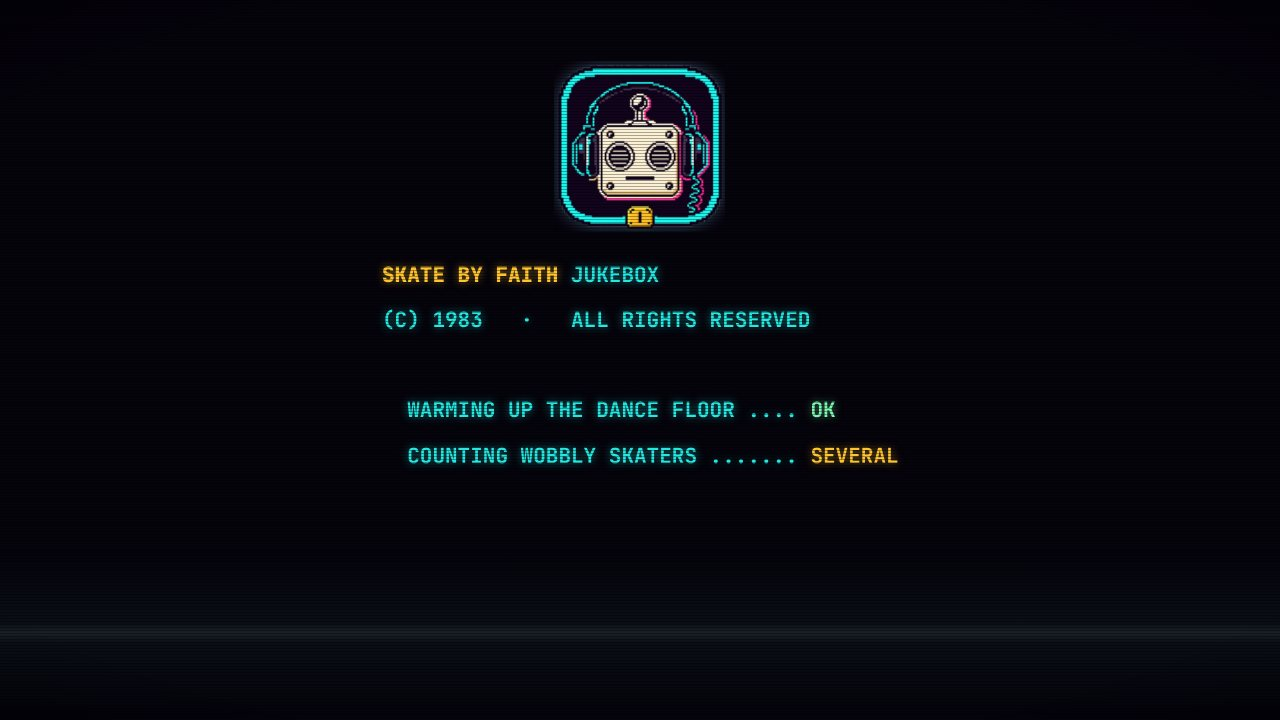
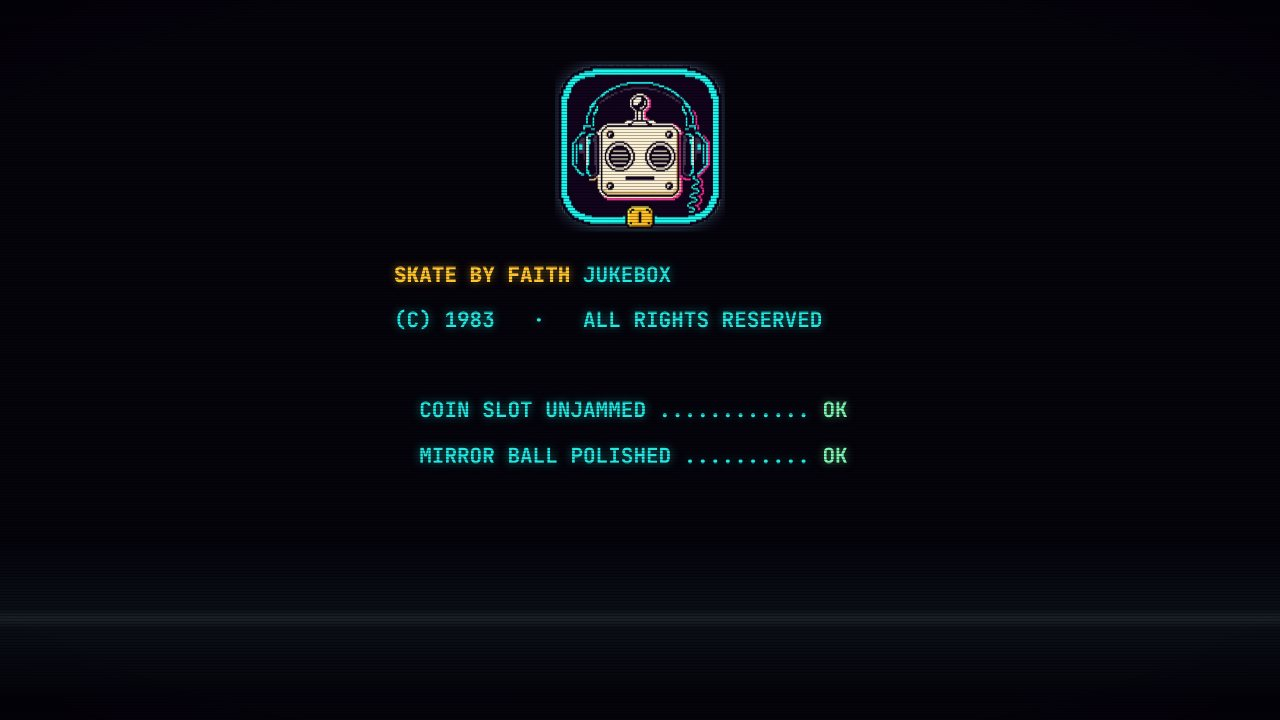
feat: bigger centred marquee, wider Now Playing, scrolling album pages
- Marquee sign: wordmark centred and enlarged (2.45rem), bulb rows moved to
  the sign's edges so lettering never sits on a bulb.
- Columns: Now Playing 1.38 / Up Next 0.62 of the right two-thirds. Up Next
  stacks its move-up and cancel buttons so titles keep their width; very long
  titles step down a size instead of being cut off.
- Album pages with more songs than fit scroll inside the strip window, show
  a MORE tag while songs are hidden below, and a typed code outlines its
  strip and scrolls it into view.
- Strips and marquee tightened so three songs per album still fit at 720p.
- README: where to add new songs; DESIGN: layout notes. Screenshots retaken.

Claude-Session: https://claude.ai/code/session_019UepSTK4gBiwDTjkX8XKsc

diff --git a/styles.css b/styles.css
@@ -229,7 +229,7 @@ body.on-attract .rig{ visibility:hidden; }
 .cabinet{
   display:grid; min-height:0;
   /* tube | choose (one third) | now playing + up next (two thirds) | tube */
-  grid-template-columns:1.8rem minmax(0,1fr) minmax(0,1.3fr) minmax(0,.7fr) 1.8rem;
+  grid-template-columns:1.8rem minmax(0,1fr) minmax(0,1.38fr) minmax(0,.62fr) 1.8rem;
   gap:.5rem;
 }
 
@@ -340,13 +340,13 @@ body.on-attract .rig{ visibility:hidden; }
 .marquee-status .led-chip{ min-width:0; }
 
 .marquee-sign{
-  position:relative; padding:.3rem 2rem .8rem;
+  position:relative; padding:.72rem 2.6rem .8rem; text-align:center;
   background:radial-gradient(120% 140% at 50% -10%, rgba(255,45,149,.12), transparent 55%), linear-gradient(180deg, #120826, #0A0417);
   border:.14rem solid var(--cab-edge); border-radius:1rem;
   box-shadow:0 .4rem 0 rgba(0,0,0,.5), inset 0 0 0 .32rem #0A0417, inset 0 0 0 .38rem rgba(255,255,255,.04), 0 0 1.4rem rgba(255,45,149,.12);
 }
 .marquee-sign::before{ /* amber bulb ring, chasing */
-  content:""; position:absolute; inset:.4rem .65rem; border-radius:.6rem; pointer-events:none;
+  content:""; position:absolute; inset:.26rem .65rem; border-radius:.6rem; pointer-events:none;
   background-image:
     radial-gradient(circle .13rem at .5rem 50%, var(--gold) 0 .13rem, transparent .17rem),
     radial-gradient(circle .13rem at .5rem 50%, var(--gold) 0 .13rem, transparent .17rem);
@@ -365,14 +365,14 @@ body.on-attract .rig{ visibility:hidden; }
 }
 .wordmark{
   margin:0; font-family:var(--font-display); font-weight:400; line-height:1; text-transform:uppercase;
-  font-size:1.9rem; letter-spacing:-.01em; white-space:nowrap; position:relative; z-index:1;
+  font-size:2.45rem; letter-spacing:-.01em; white-space:nowrap; position:relative; z-index:1;
 }
 .wordmark span{ color:#fff; display:inline-block; }
 /* the little word between the two tubes is plain plastic lettering, not neon */
 .wordmark .by, .attract-title .by{ font-size:.5em; vertical-align:.32em; color:var(--cream); text-shadow:none; margin:0 .1em; }
 .wordmark-sub{
   margin:.15rem 0 0; text-align:center; position:relative; z-index:1; white-space:nowrap;
-  font:700 .58rem/1 var(--font-mono); letter-spacing:.2em; text-transform:uppercase; color:var(--cream);
+  font:700 .72rem/1 var(--font-mono); letter-spacing:.2em; text-transform:uppercase; color:var(--cream);
 }
 .w-cyan{ color:#E9FFFE; text-shadow:0 0 .05rem #fff, 0 0 .28rem rgba(37,232,226,.75), 0 0 .7rem rgba(37,232,226,.32), -.05rem 0 0 rgba(37,232,226,.25), .05rem 0 0 rgba(255,45,149,.15); }
 .w-mag{ color:#FFEAF4; text-shadow:0 0 .05rem #fff, 0 0 .28rem rgba(255,45,149,.75), 0 0 .7rem rgba(255,45,149,.32), -.05rem 0 0 rgba(255,45,149,.25), .05rem 0 0 rgba(37,232,226,.15); }
@@ -471,17 +471,24 @@ body.on-attract .rig{ visibility:hidden; }
 .rack-sleeve .sleeve{ box-shadow:0 .3rem 0 rgba(0,0,0,.55), inset 0 0 0 1px rgba(60,40,10,.35); }
 
 /* the title strips: read-only paper in a dark brass-framed window */
+.strips-wrap{ position:relative; flex:1; min-width:0; display:flex; }
 .strips{
   flex:1; min-width:0; align-self:stretch; min-height:0; overflow-y:auto; overflow-x:hidden;
-  padding:.35rem; border-radius:.5rem; background:linear-gradient(180deg,#0d0618,#140a24);
+  padding:.28rem; border-radius:.5rem; background:linear-gradient(180deg,#0d0618,#140a24);
   box-shadow:var(--inset), 0 0 0 .14rem #6a4a2a, 0 0 0 .22rem #2a1a0a;
   scrollbar-width:thin; scrollbar-color:var(--cab-edge) transparent;
 }
+.strips-more{
+  position:absolute; left:50%; bottom:.35rem; z-index:2; transform:translateX(-50%); pointer-events:none;
+  padding:.12rem .45rem; border-radius:.25rem; background:var(--screen); box-shadow:0 0 0 1px var(--cab-edge), 0 -.6rem .8rem rgba(13,6,24,.9);
+  font:700 .55rem/1 var(--font-mono); letter-spacing:.12em; color:var(--cyan); opacity:0; transition:opacity .2s ease;
+}
+.strips-more.is-shown{ opacity:1; }
 .strips-empty{ margin:1rem .4rem; color:var(--dim); font:700 .66rem var(--font-mono); letter-spacing:.08em; text-align:center; }
 .strip{
   --paper:linear-gradient(180deg,#E6D9BB,#D2C29E);
   position:relative; display:grid; grid-template-columns:1.8rem minmax(0,1fr); align-items:center; gap:.35rem;
-  width:100%; min-height:2.05rem; margin:0 0 .26rem; padding:.2rem .3rem .2rem .22rem; text-align:left;
+  width:100%; min-height:1.95rem; margin:0 0 .2rem; padding:.16rem .3rem .16rem .22rem; text-align:left;
   background:var(--paper); color:var(--sl-ink); border-radius:.2rem;
   box-shadow:0 .14rem 0 rgba(0,0,0,.55), inset 0 0 0 1px rgba(60,40,10,.25);
 }
@@ -498,6 +505,7 @@ body.on-attract .rig{ visibility:hidden; }
 }
 .strip-aside:empty{ display:none; }
 .strip.is-now{ box-shadow:0 0 0 .14rem var(--magenta), 0 .14rem 0 rgba(0,0,0,.55); }
+.strip.is-typed{ box-shadow:0 0 0 .14rem var(--cyan), 0 .14rem 0 rgba(0,0,0,.55); }
 .strip.is-now .strip-aside{ color:var(--magenta-deep); }
 .strip.is-queued .strip-aside{ color:#0B6F6B; }
 .strip.is-missing{ filter:grayscale(.85); opacity:.62; }
@@ -656,15 +664,20 @@ body.on-attract .rig{ visibility:hidden; }
 /* ================= RIGHT TWO-THIRDS: up next (full height) ================= */
 .queue-panel{ display:flex; flex-direction:column; min-height:0; }
 .queue{ flex:1; min-height:0; padding:.4rem .5rem; display:flex; flex-direction:column; }
-.queue-list{ list-style:none; margin:0; padding:0; position:relative; z-index:1; display:grid; gap:.35rem; }
-.q-row{ display:grid; grid-template-columns:1.1rem minmax(0,1fr) 1.25rem 1.25rem; align-items:center; gap:.3rem; min-height:2.1rem; }
+.queue-list{ list-style:none; margin:0; padding:0; position:relative; z-index:1; display:grid; gap:.28rem; }
+/* the narrow column: move-up and cancel stack on the right so the title keeps the width */
+.q-row{
+  display:grid; grid-template-columns:1.1rem minmax(0,1fr) 1.25rem; grid-template-areas:"pos text up" "pos text x";
+  align-items:center; column-gap:.35rem; row-gap:.18rem; min-height:2.1rem;
+}
+.q-pos{ grid-area:pos; } .q-text{ grid-area:text; } .q-btn{ grid-area:up; } .q-btn.q-x{ grid-area:x; }
 .q-pos{ font-size:1.05rem; text-align:center; }
 .q-text{ display:grid; min-width:0; line-height:1.05; gap:.12rem; }
 .q-title{ font:700 .92rem/1.08 var(--font-body); color:var(--cream); overflow:hidden; display:-webkit-box; -webkit-box-orient:vertical; -webkit-line-clamp:2; }
-.q-title[data-long="1"]{ font-size:.86rem; }
-.q-sub{ font-size:.58rem; letter-spacing:.06em; opacity:.85; }
+.q-title[data-long="1"]{ font-size:.86rem; } .q-title[data-long="2"]{ font-size:.78rem; }
+.q-sub{ font-size:.58rem; letter-spacing:.06em; opacity:.85; white-space:nowrap; overflow:hidden; text-overflow:ellipsis; }
 .q-btn{
-  width:1.25rem; height:1.2rem; padding:0; cursor:pointer; font-size:.6rem; line-height:1;
+  width:1.25rem; height:1.1rem; padding:0; cursor:pointer; font-size:.6rem; line-height:1;
   background:var(--cab-2); color:var(--cream); border:1px solid var(--cab-edge); border-radius:.25rem; box-shadow:0 .12rem 0 rgba(0,0,0,.5);
 }
 .q-btn:hover:not(:disabled){ border-color:var(--cyan); color:var(--cyan); }

diff --git a/ui.js b/ui.js
@@ -122,7 +122,19 @@ export function createUI({ library, getStatus, handlers }) {
       stripRows.set(t.id, row);
       stripsEl.append(row);
     }
+    stripsEl.scrollTop = 0;
+    updateMoreCue();
   }
+
+  /* An album with more songs than fit scrolls inside the strip window. The
+     MORE tag shows while there are songs below, and typing a code scrolls
+     its strip into view. */
+  function updateMoreCue() {
+    const below = stripsEl.scrollHeight - stripsEl.clientHeight - stripsEl.scrollTop;
+    $('strips-more').classList.toggle('is-shown', below > 12);
+  }
+  stripsEl.addEventListener('scroll', updateMoreCue, { passive: true });
+  window.addEventListener('resize', updateMoreCue);
 
   /* Refresh strip states in place. Only a status shows (NOW, Q1, OUT OF ORDER);
      song lengths are left off so the titles get the room. */
@@ -174,6 +186,11 @@ export function createUI({ library, getStatus, handlers }) {
     const code = $('readout-code');
     code.textContent = buffer.length ? buffer.padEnd(2, '_') : '__';
     code.classList.toggle('is-typing', buffer.length > 0);
+    for (const [id, row] of stripRows) {
+      const isTyped = buffer.length > 1 && trackById.get(id).code === buffer;
+      row.classList.toggle('is-typed', isTyped);
+      if (isTyped) row.scrollIntoView({ block: 'nearest' });
+    }
   }
 
   let msgTimer = null;
@@ -198,7 +215,7 @@ export function createUI({ library, getStatus, handlers }) {
       list.append(el('li', { class: 'q-row' },
         el('span', { class: 'q-pos led' }, String(i + 1)),
         el('span', { class: 'q-text' },
-          el('span', { class: 'q-title', dataset: { long: t.title.length > 20 ? '1' : '0' } }, t.title),
+          el('span', { class: 'q-title', dataset: { long: t.title.length > 28 ? '2' : t.title.length > 20 ? '1' : '0' } }, t.title),
           el('span', { class: 'q-sub led' }, `${t.code}${vol ? ` · ${vol.title.toUpperCase()}` : ''}`)),
         el('button', { class: 'q-btn', type: 'button', 'aria-label': `Move ${t.title} up`, disabled: i === 0, onclick: () => handlers.moveUp(i) }, '▲'),
         el('button', { class: 'q-btn q-x', type: 'button', 'aria-label': `Cancel ${t.title}`, onclick: () => handlers.cancel(i) }, '✕')));

diff --git a/index.html b/index.html
@@ -97,7 +97,10 @@
         </div>
         <div class="rack-page">
           <div class="rack-sleeve" id="rack-sleeve"></div>
-          <div class="strips" id="strips" role="list" aria-label="Songs on this album"></div>
+          <div class="strips-wrap">
+            <div class="strips" id="strips" role="list" aria-label="Songs on this album"></div>
+            <span class="strips-more" id="strips-more" aria-hidden="true">&#9660; MORE</span>
+          </div>
         </div>
       </div>
 

diff --git a/DESIGN.md b/DESIGN.md
@@ -120,7 +120,10 @@ worker.
   a volume has more songs than fit.
 - Rows: marquee, LED ticker, cabinet, operator deck, key legend.
 - Cabinet columns: tube | **PICK A SONG** (one third) | **NOW PLAYING** + **UP
-  NEXT** (two thirds, split 1.3 : 0.7) | tube.
+  NEXT** (two thirds, split 1.38 : 0.62) | tube.
+- The marquee sign is centred on the page (wordmark 2.45 rem, subtitle .72 rem,
+  both centred inside the sign) with the bulb rows hugging the sign's edges so
+  the lettering never sits on a bulb.
 - PICK A SONG is one panel: the rack page on top (one album at a time - a big
   sleeve as tall as the page, capped at 46% of the width so the title strips
   keep room for two-line titles, with arrows to flip albums) and the selector
@@ -133,7 +136,8 @@ worker.
   operator; status (NOW / Q2 / OUT OF ORDER) is a small tag clipped onto the
   strip's corner so titles keep the full width.
 - About 3 songs per album fit without scrolling at 1280 x 720; a 4th scrolls
-  inside the strip window.
+  inside the strip window. A **▼ MORE** tag shows while songs are hidden below,
+  and a fully typed code outlines its strip in cyan and scrolls it into view.
 
 ## Restraint (the October refinement pass)
 

diff --git a/README.md b/README.md
@@ -130,6 +130,14 @@ next, previous, shuffle), and I and O are never used (they look like 1 and 0), s
 Vol. VI is **G**, not F. This table is also written at the top of
 `tracks.js`. Moving a song up or down the list changes its code.
 
+**Where to put new songs:** fill the albums with the fewest songs first (right
+now Vol. VIII, IX and X have 2 each; the rest have 3), so every album page shows
+all its songs at once. Add each new song at the **end** of the `tracks = [`
+list, so no existing code changes. Once every album has 3, a 4th song still
+works: that album's strips scroll (mouse wheel or trackpad), a small
+**▼ MORE** tag shows there are songs below, and typing a code scrolls its
+strip into view.
+
 **Adding a whole new album (volume):** add a line inside the `volumes = [` list:
 
 ```js
